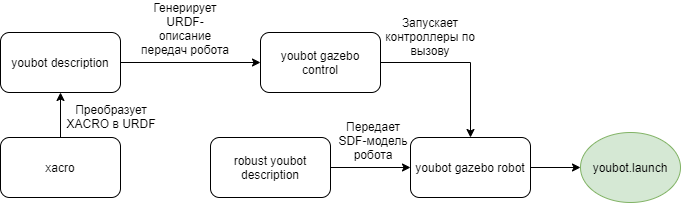
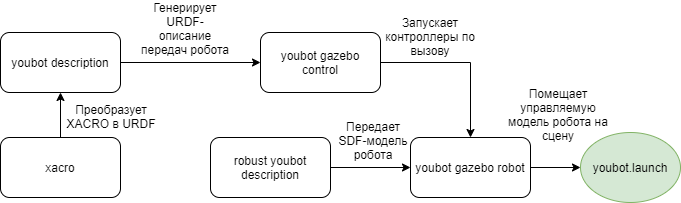
UPdate packages summary

Changed region(s): [[0.7401, 0.4433, 0.8943, 0.6207], [0.8018, 0.6502, 0.8634, 0.7094]]

diff --git a/src/youbot/README.md b/src/youbot/README.md
@@ -124,7 +124,7 @@
 
   В папке **config** содержатся yaml-файлы конфигурации для руки, схвата и колес. С помощью них можно без повторной компиляции изменить параметры контроллеров, в частности коэффициенты ПИД-регуляторов.
 
-- **youbot_gazebo_robot** - на основе других пакетов производит генерацию модели робота.
+- **youbot_gazebo_robot** - на основе других пакетов производит генерацию модели робота и помещает ее на сцену.
 
   В файле **youbot.launch** можно изменить стандартные значения параметров запуска:
 
